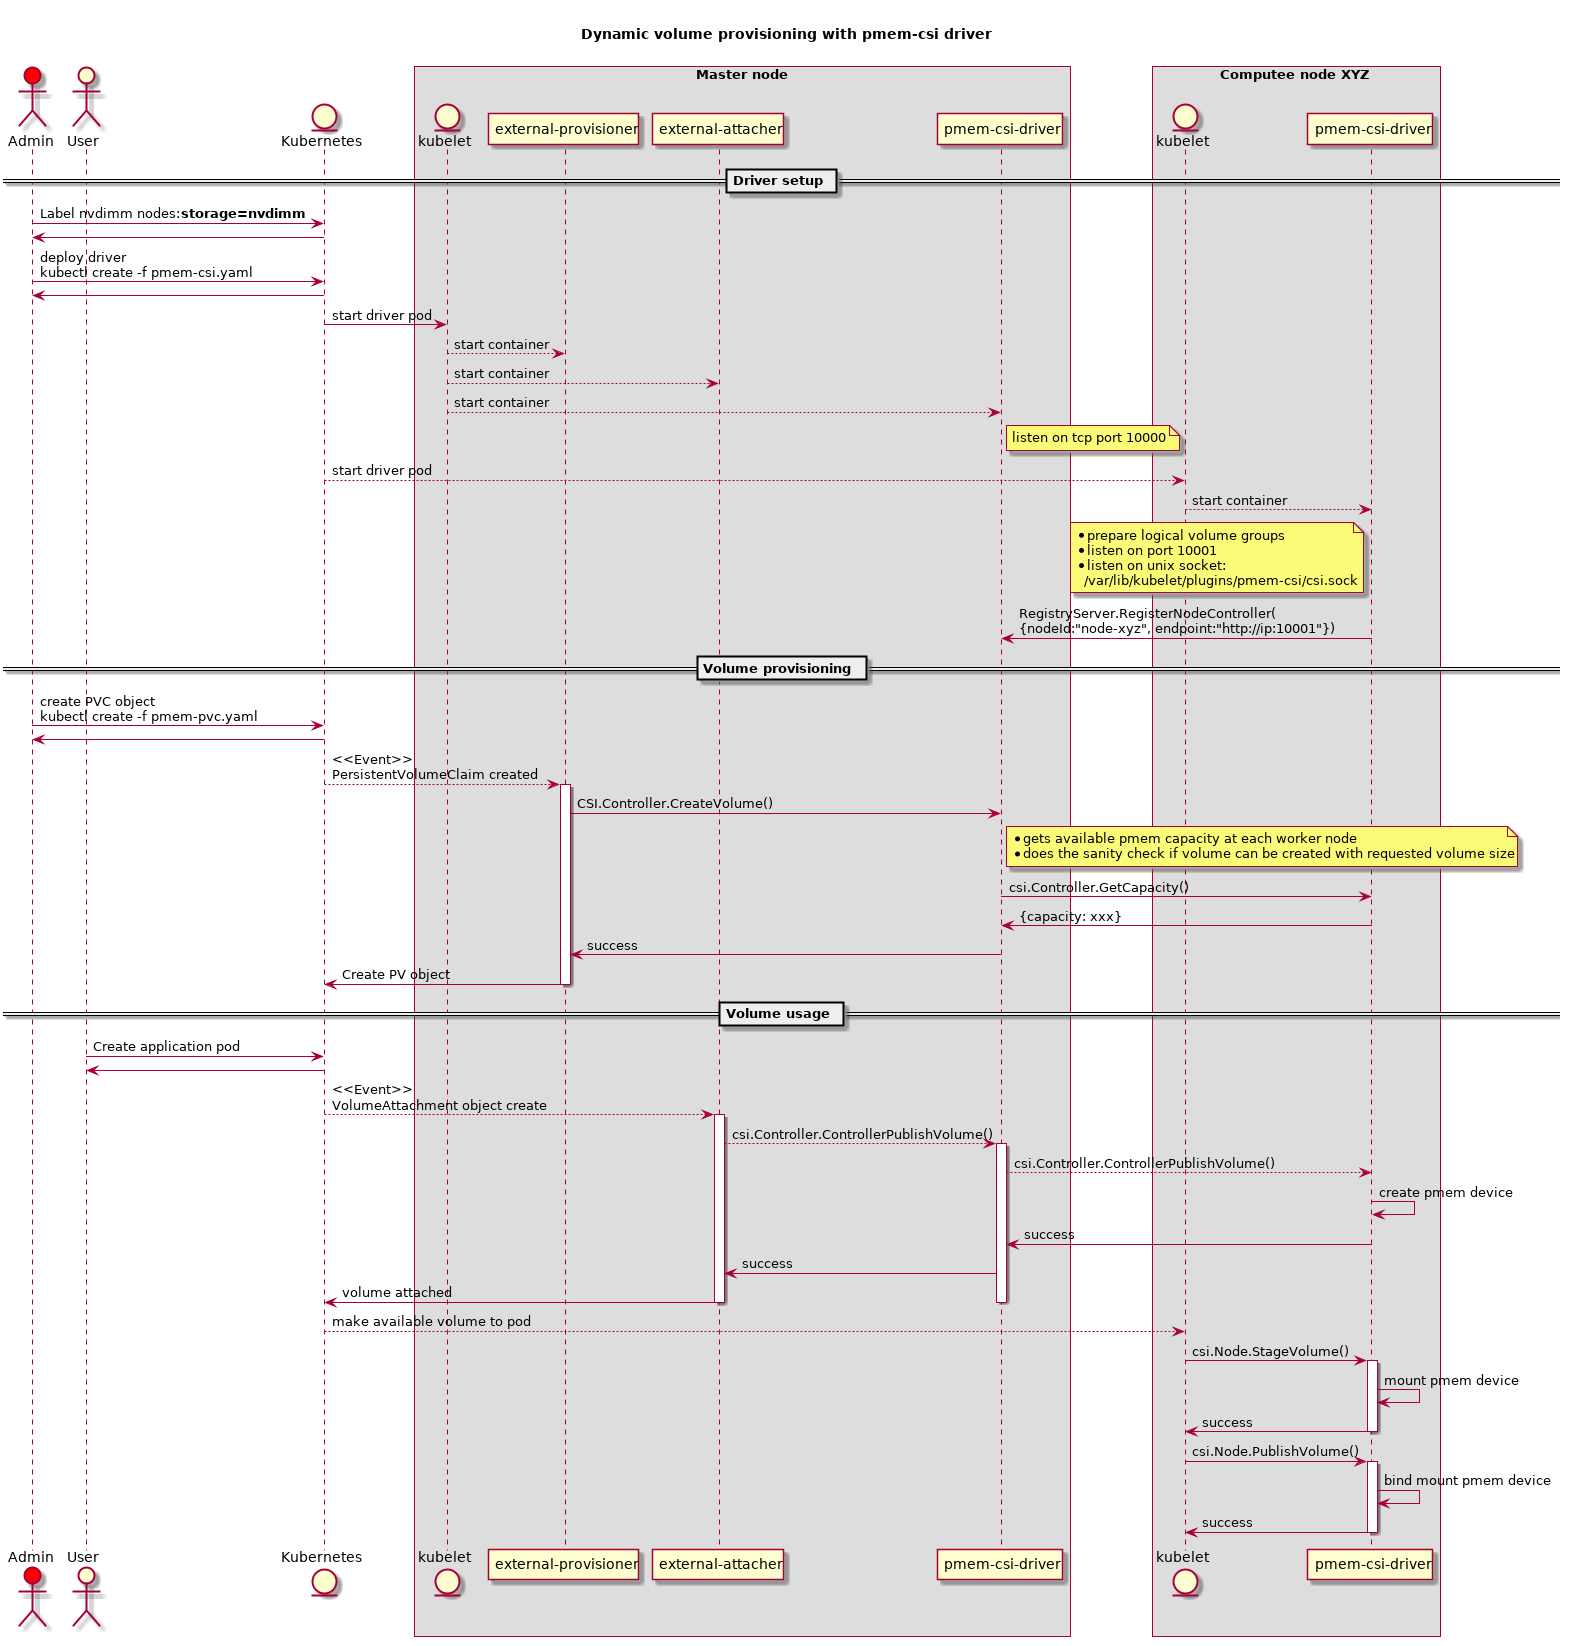
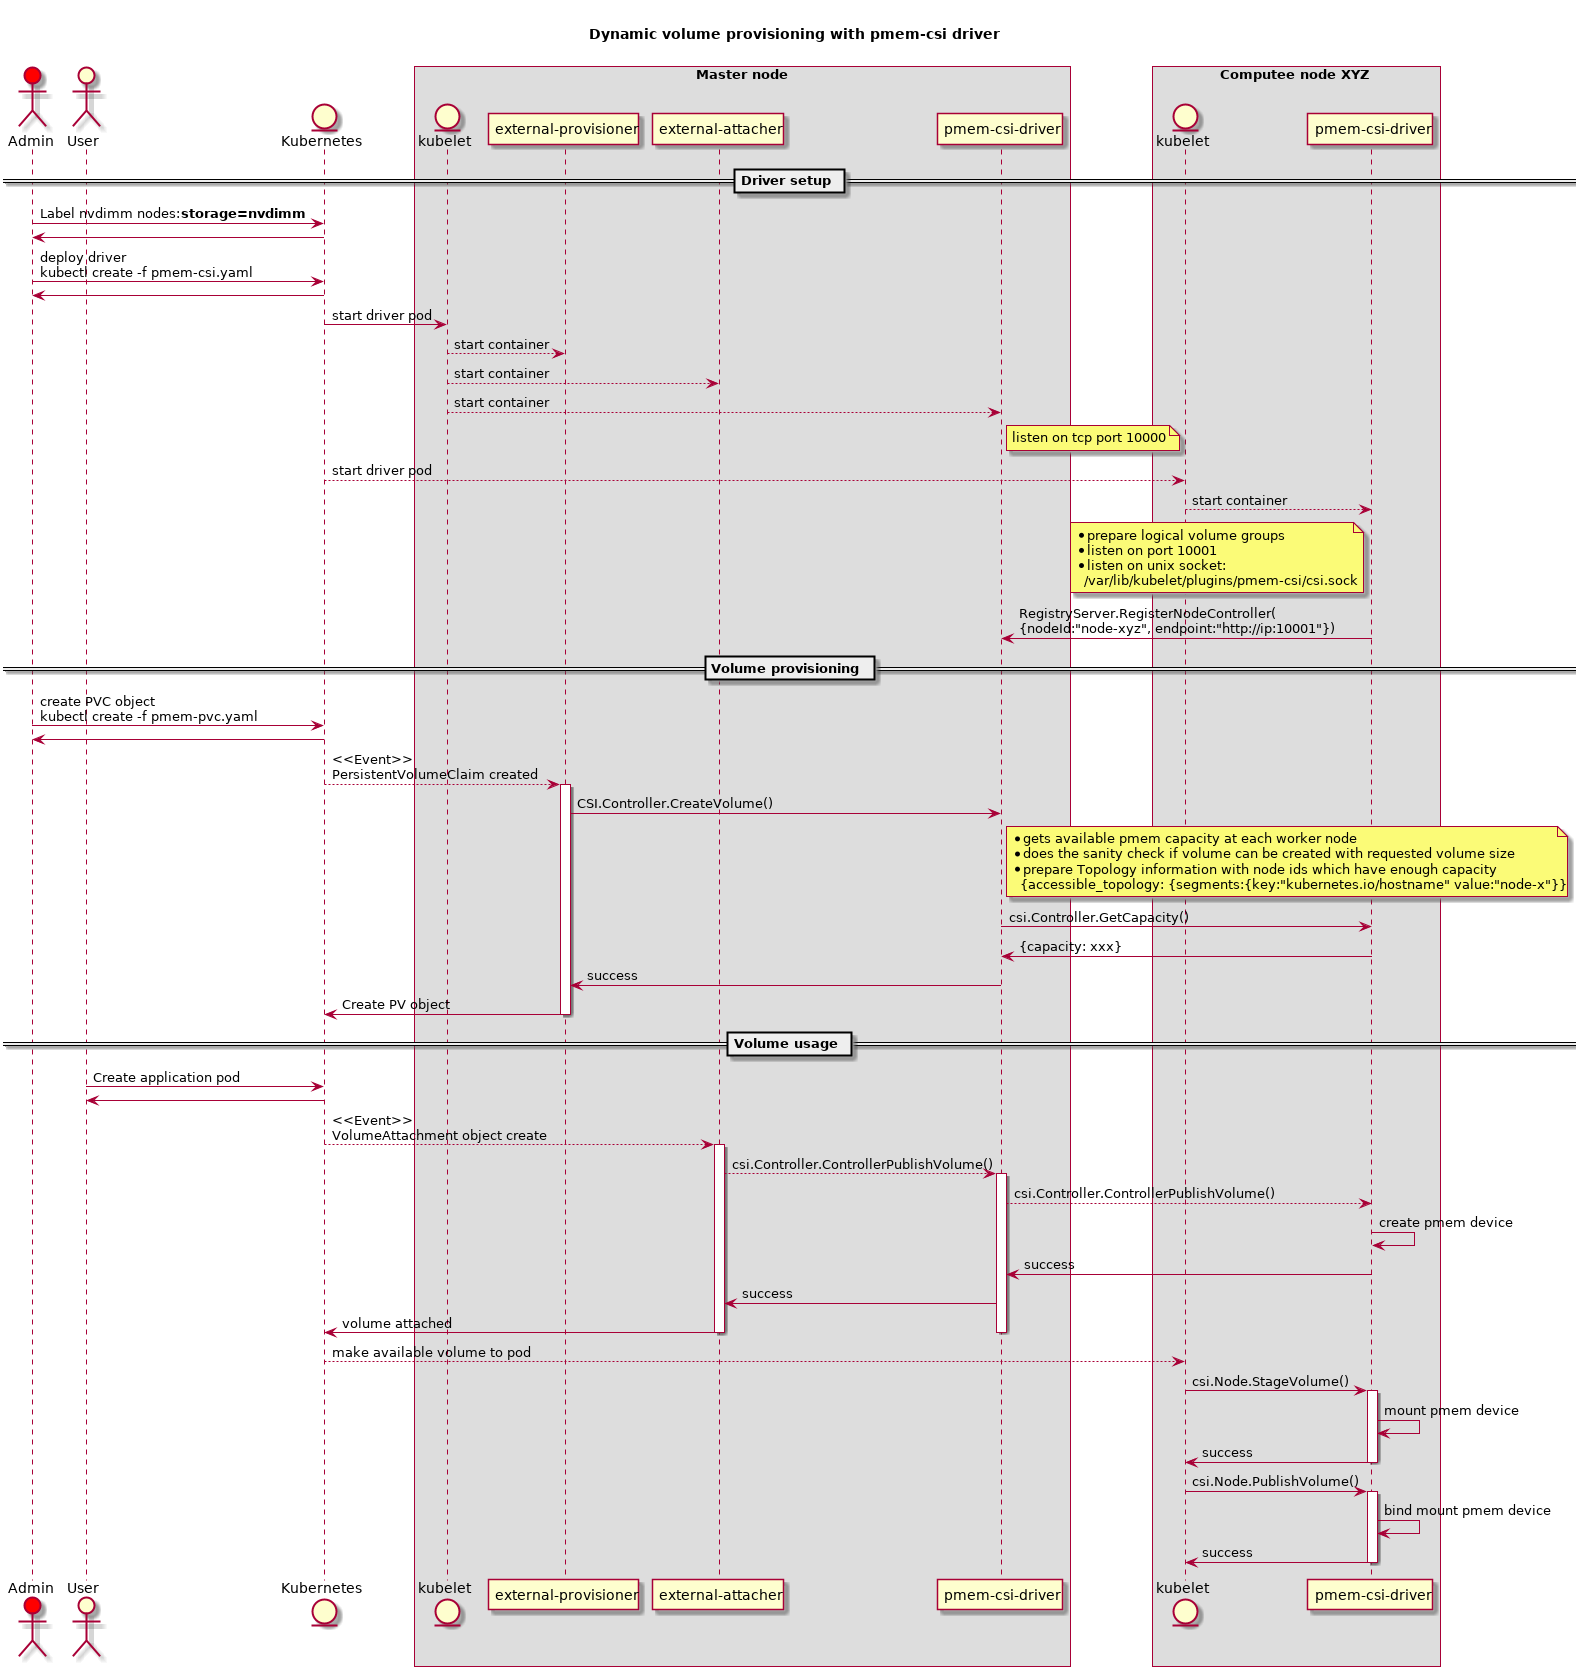
Add Topology information to volume
This change fills the topology information with the appropriate node names where
a newly created persistent volume can be attached, This topology information is
used by csi-provisioner sidecar and generates PV.Spec.NodeAffinity.

This allows the kubernetes scheduler to consider this NodeAffinity while
scheduling the pod which first claims this PV, and schedule only on nodes where
this PV can be attachable.

As "kubernetes.io/hostname" used as topology zone name, it limits this feature
only work for Kuberntes and has no effect on non-Kuberntes COs.

NOTE: This change **does not** fix the PV sharing issue, .i.e, Forcing the Pods
who share the same PV to schedule on the same node where the fist Pod got
scheduled. This could be possible, if the driver/csi-attacher could alter
the Topology/NodeAffinity of a PV dynamically once after the initial attachment
has done. But currently this is not supported by csi-attacher.

Enabled needed csi-provisioner's 'Topology' feature-gate in driver deployment.

diff --git a/pkg/pmem-csi-driver/controllerserver.go b/pkg/pmem-csi-driver/controllerserver.go
@@ -19,7 +19,7 @@ import (
 
 	"github.com/container-storage-interface/spec/lib/go/csi/v0"
 
-	"github.com/intel/pmem-csi/pkg/pmem-common"
+	pmemcommon "github.com/intel/pmem-csi/pkg/pmem-common"
 	pmdmanager "github.com/intel/pmem-csi/pkg/pmem-device-manager"
 	"k8s.io/kubernetes/pkg/util/keymutex" // TODO: move to k8s.io/utils (https://github.com/kubernetes/utils/issues/62)
 )
@@ -157,7 +157,7 @@ func (cs *controllerServer) CreateVolume(ctx context.Context, req *csi.CreateVol
 	if asked <= 0 {
 		asked = 4 * 1024 * 1024
 	}
-
+	topology := []*csi.Topology{}
 	glog.Infof("CreateVolume: Name: %v req.Required: %v req.Limit: %v", req.Name, asked, req.GetCapacityRange().GetLimitBytes())
 	if vol = cs.GetVolumeByName(req.Name); vol != nil {
 		// Check if the size of existing volume can cover the new request
@@ -173,6 +173,11 @@ func (cs *controllerServer) CreateVolume(ctx context.Context, req *csi.CreateVol
 			if err := cs.dm.CreateDevice(volumeID, uint64(asked), nsmode); err != nil {
 				return nil, status.Errorf(codes.Internal, "CreateVolume: failed to create volume: %s", err.Error())
 			}
+			topology = append(topology, &csi.Topology{
+				Segments: map[string]string{
+					"kubernetes.io/hostname": cs.Driver.nodeID,
+				},
+			})
 		} else /*if cs.mode == Controller */ {
 			capReq := &csi.GetCapacityRequest{
 				Parameters:         params,
@@ -192,7 +197,17 @@ func (cs *controllerServer) CreateVolume(ctx context.Context, req *csi.CreateVol
 			}
 
 			if len(foundNodes) == 0 {
-				return nil, status.Error(codes.Unavailable, fmt.Sprintf("No node found with %v capacaity", asked))
+				return nil, status.Error(codes.Unavailable, fmt.Sprintf("No node found with %v capacity", asked))
+			}
+
+			glog.Infof("Found nodes: %v", foundNodes)
+
+			for _, id := range foundNodes {
+				topology = append(topology, &csi.Topology{
+					Segments: map[string]string{
+						"kubernetes.io/hostname": id,
+					},
+				})
 			}
 		}
 
@@ -213,8 +228,9 @@ func (cs *controllerServer) CreateVolume(ctx context.Context, req *csi.CreateVol
 
 	return &csi.CreateVolumeResponse{
 		Volume: &csi.Volume{
-			Id:            vol.ID,
-			CapacityBytes: vol.Size,
+			Id:                 vol.ID,
+			CapacityBytes:      vol.Size,
+			AccessibleTopology: topology,
 			Attributes: map[string]string{
 				"name":   req.GetName(),
 				"size":   strconv.FormatInt(asked, 10),

diff --git a/pkg/pmem-csi-driver/nodeserver-default.go b/pkg/pmem-csi-driver/nodeserver-default.go
@@ -37,6 +37,11 @@ func (ns *DefaultNodeServer) NodeGetId(ctx context.Context, req *csi.NodeGetIdRe
 func (ns *DefaultNodeServer) NodeGetInfo(ctx context.Context, req *csi.NodeGetInfoRequest) (*csi.NodeGetInfoResponse, error) {
 	return &csi.NodeGetInfoResponse{
 		NodeId: ns.Driver.nodeID,
+		AccessibleTopology: &csi.Topology{
+			Segments: map[string]string{
+				"kubernetes.io/hostname": ns.Driver.nodeID,
+			},
+		},
 	}, nil
 }
 

diff --git a/pkg/pmem-csi-driver/identityserver-default.go b/pkg/pmem-csi-driver/identityserver-default.go
@@ -50,6 +50,13 @@ func (ids *DefaultIdentityServer) GetPluginCapabilities(ctx context.Context, req
 					},
 				},
 			},
+			{
+				Type: &csi.PluginCapability_Service_{
+					Service: &csi.PluginCapability_Service{
+						Type: csi.PluginCapability_Service_ACCESSIBILITY_CONSTRAINTS,
+					},
+				},
+			},
 		},
 	}, nil
 }
